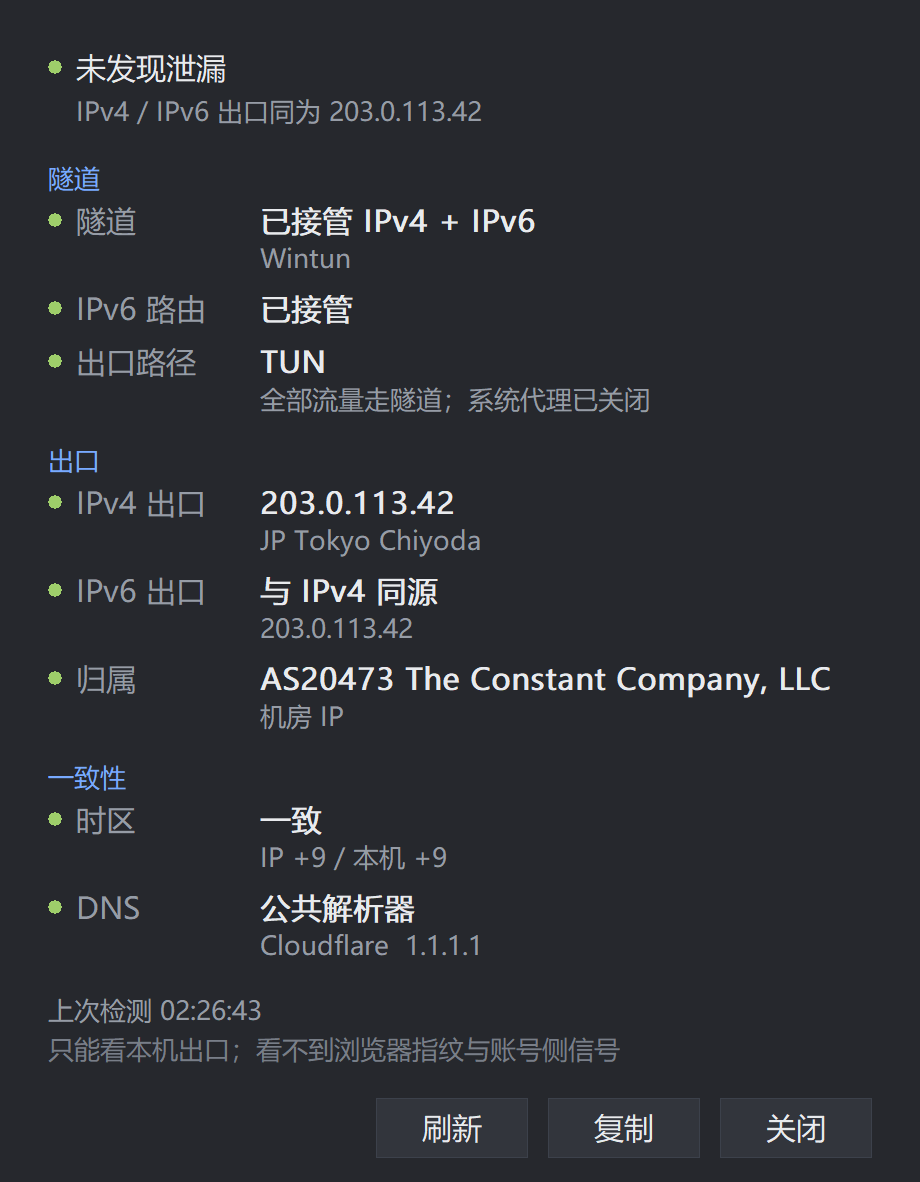
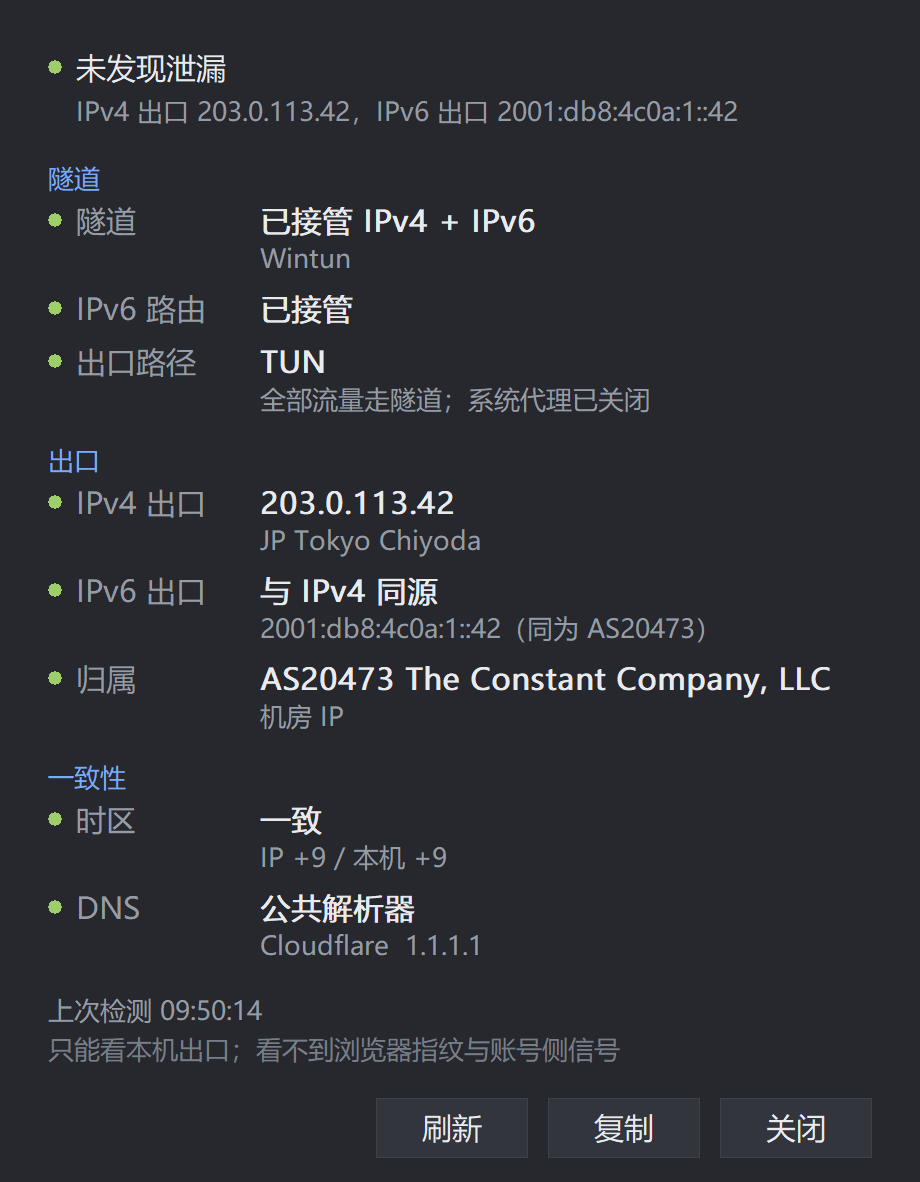
同步诊断面板图与文案：v6 出口按归属判同源
图重出（卡片 + 诊断面板，png + webp）；alt 与正文里的示例
从「比地址不同源」改成「与 IPv4 同源（同为 AS20473）」。

diff --git a/project-ip-float.html b/project-ip-float.html
@@ -91,7 +91,7 @@
 
       <div class="card-grid fade-in" style="margin-top:40px;align-items:center">
         <div class="gallery-item" style="max-width:420px;width:100%;justify-self:center">
-          <picture><source srcset="assets/ip-float/diag.webp" type="image/webp"><img src="assets/ip-float/diag.png" alt="ip-float 网络诊断窗口：顶部结论『未发现泄漏』与依据『IPv4 / IPv6 出口同为 203.0.113.42』；下面按隧道 / 出口 / 一致性分三组，每行给出检查项、值、以及判定依据，例如『隧道 已接管 IPv4 + IPv6』『IPv6 出口 与 IPv4 同源』『时区 一致 IP +9 / 本机 +9』『DNS 公共解析器 Cloudflare 1.1.1.1』；底部三个按钮 刷新 / 复制 / 关闭" width="920" height="1182" loading="lazy" decoding="async"></picture>
+          <picture><source srcset="assets/ip-float/diag.webp" type="image/webp"><img src="assets/ip-float/diag.png" alt="ip-float 网络诊断窗口：顶部结论『未发现泄漏』与依据『IPv4 出口 203.0.113.42，IPv6 出口 2001:db8:4c0a:1::42』；下面按隧道 / 出口 / 一致性分三组，每行给出检查项、值、以及判定依据，例如『隧道 已接管 IPv4 + IPv6』『IPv6 出口 与 IPv4 同源』『时区 一致 IP +9 / 本机 +9』『DNS 公共解析器 Cloudflare 1.1.1.1』；底部三个按钮 刷新 / 复制 / 关闭" width="920" height="1182" loading="lazy" decoding="async"></picture>
           <div class="gallery-caption"><span data-lang="cn">网络诊断面板 · 点击放大</span><span data-lang="en">Diagnostics · click to enlarge</span></div>
         </div>
         <div class="card" style="border:none;background:transparent;box-shadow:none;padding:0">
@@ -187,7 +187,7 @@
         </div>
         <div class="card">
           <h3><span data-lang="cn">右键「网络诊断…」：给依据，不只给结论</span><span data-lang="en">Right-Click Diagnostics: Evidence, Not Just a Verdict</span></h3>
-          <p><span data-lang="cn">徽章只是结论。想知道为什么，打开诊断窗口：每一行下面都写着判定依据，例如"IPv6 出口 2408:… 与 IPv4 出口 45.77… 不同源"。它读的是本机路由表和注册表，加上两次免费探测——开销只有一次 geo 请求和一次本地 DNS 查询，不额外花钱，也不需要你手动刷新。</span><span data-lang="en">The badges are only the verdict. Open the diagnostics window to see why: every row carries its own evidence, such as "IPv6 egress 2408:… differs from IPv4 egress 45.77…". Verdicts come from the routing table and the registry plus two free probes — the running cost is one geolocation request and one local DNS query, with no paid API and no manual refresh.</span></p>
+          <p><span data-lang="cn">徽章只是结论。想知道为什么，打开诊断窗口：每一行下面都写着判定依据，例如"IPv6 出口 与 IPv4 同源（同为 AS20473）"。它读的是本机路由表和注册表，加上两次免费探测——开销只有一次 geo 请求和一次本地 DNS 查询，不额外花钱，也不需要你手动刷新。</span><span data-lang="en">The badges are only the verdict. Open the diagnostics window to see why: every row carries its own evidence, such as "IPv6 egress shares the IPv4 exit (both AS20473)". Verdicts come from the routing table and the registry plus two free probes — the running cost is one geolocation request and one local DNS query, with no paid API and no manual refresh.</span></p>
         </div>
         <div class="card">
           <h3><span data-lang="cn">只报该报的</span><span data-lang="en">Data Leaves Only When It Must</span></h3>
